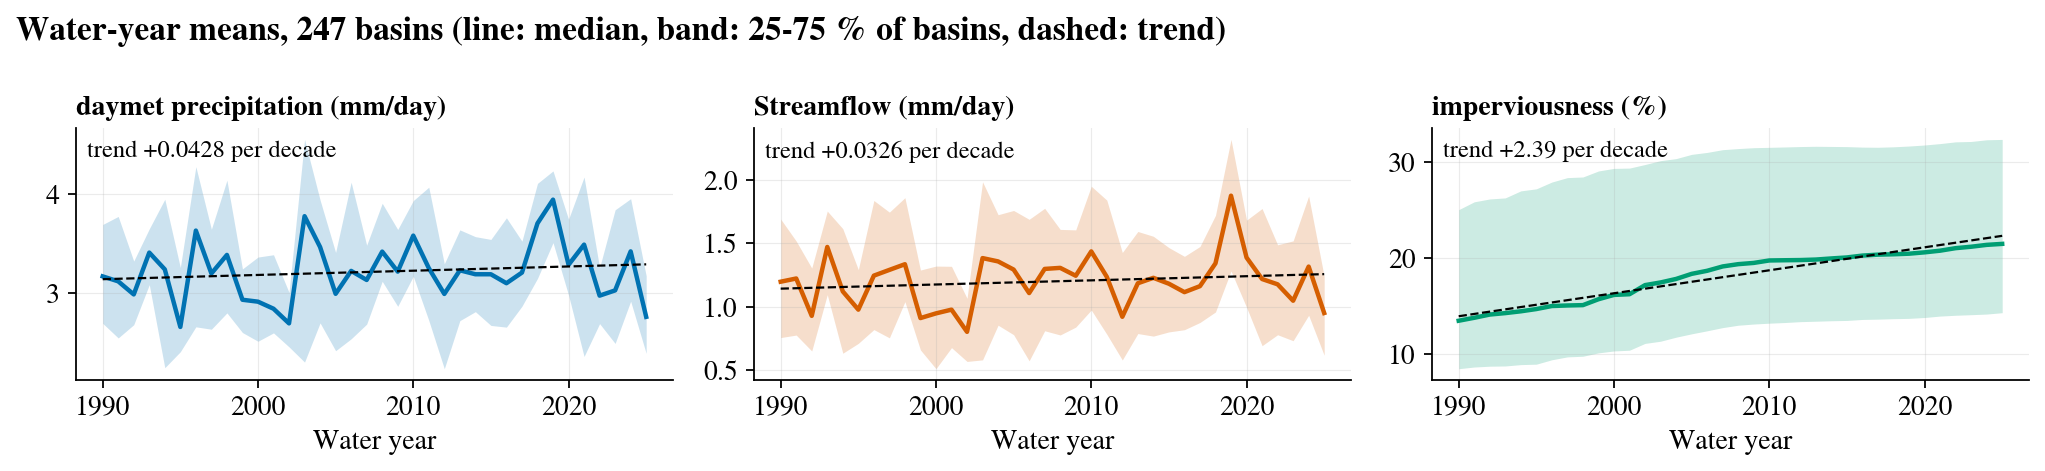
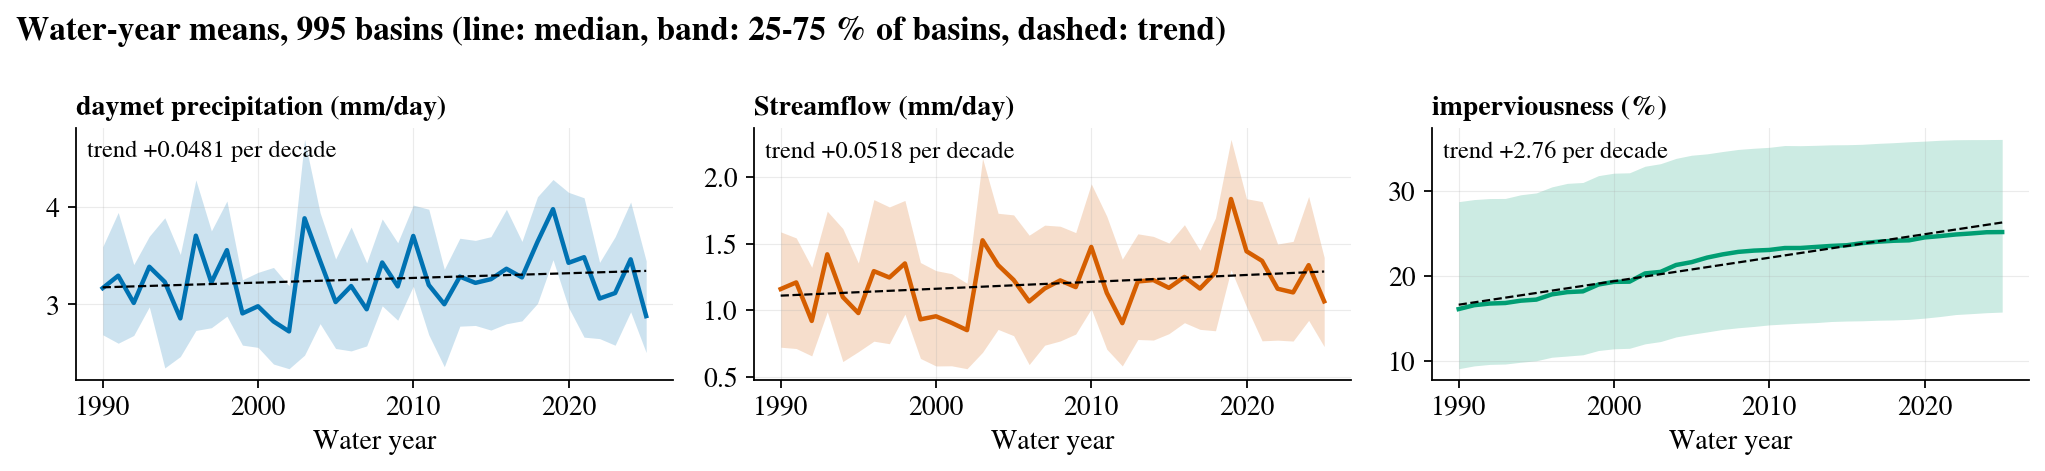
Examples and notebook default use all 995 basins

diff --git a/docs/make_readme_figures.py b/docs/make_readme_figures.py
@@ -97,7 +97,7 @@ def layout():
 
 
 def examples(root):
-    cfg = dict(data_root=root, resolution='daily', period=('1989-10-01', '2025-09-30'), basins=dict(preset='benchmark_247'),
+    cfg = dict(data_root=root, resolution='daily', period=('1989-10-01', '2025-09-30'), basins=dict(preset='all'),
                forcing={'daymet': ['prcp', 'tmax', 'srad', 'vp']}, pet={'daymet': ['pet_pt']}, dynamic_attributes=['imperv'],
                target=dict(unit='mm'), static_attributes=dict(groups=['location_topography'], categorical='drop'),
                gap_fill=dict(max_steps=2, precip='zero'), qc=dict(max_target_missing_pct=100, drop_if_inputs_missing=True),
@@ -105,7 +105,7 @@ def examples(root):
                           test=('2010-10-01', '2025-09-30')), output=dict(dir='unused', format='csv'))
     basins = up.select_basins(cfg['basins'], verbose=False)
     tables, _, _ = up.build(cfg, basins)
-    ax = up.plot_map(basins, title='The 247 benchmark basins (complete daily record), coloured by imperviousness')
+    ax = up.plot_map(basins, title='The 995 Urban-CAMELS basins, coloured by imperviousness')
     ax.figure.savefig(IMG / 'example_map.png', dpi=DPI, bbox_inches='tight', facecolor='white')
     up.plot_timeseries(tables, '02336300', period=('2020-10-01', '2021-09-30')).savefig(
         IMG / 'example_timeseries.png', dpi=DPI, bbox_inches='tight', facecolor='white')

diff --git a/README.md b/README.md
@@ -46,7 +46,7 @@ Open **`Urban_CAMELS_data_prep.ipynb`** from this folder. Set `DATA_ROOT` in the
 the environment variable `UCAMELS_DATA`), edit the cells marked **EDIT**, then run all cells.
 
 Basins are read in parallel, so 4 to 8 CPU cores help. Memory depends on the build:
-- a daily build of the 247 benchmark basins needs well under 4 GB and runs in under a minute;
+- a daily build of all 995 basins (Daymet forcing, PET, imperviousness) needs about 1 GB and runs in under a minute on 4 cores;
 - an hourly build of about 500 basins over WY2008-2025 needs about 12 GB and takes about 3 minutes.
 
 ## Use from a script
@@ -58,7 +58,7 @@ import ucamels_prep as up
 CONFIG = dict(
     data_root='/path/to/Urban-CAMELS',
     resolution='daily', period=('1989-10-01', '2025-09-30'),
-    basins=dict(preset='benchmark_247'),
+    basins=dict(preset='all'),
     forcing={'daymet': ['prcp', 'tmax', 'tmin', 'srad', 'vp']}, pet={'daymet': ['pet_pt']},
     dynamic_attributes=['imperv'], target=dict(unit='mm'),
     static_attributes=dict(groups=['location_topography', 'soil', 'climate'], from_training_period=True),
@@ -87,8 +87,8 @@ After `up.build()`, the notebook draws the dataset you built, at your time step.
 | `up.plot_scatter(tables, x, y, freq=...)` | two variables against each other over all basins |
 
 Correlations are computed inside each basin and the median over basins is shown, so differences in climate or size
-between basins do not create correlation. The examples below are the 247 benchmark basins at the daily step, and one
-storm at the hourly step with MRMS radar precipitation.
+between basins do not create correlation. The examples below are all 995 basins at the daily step (basins without daily streamflow
+are left out of the streamflow statistics), and one storm at the hourly step with MRMS radar precipitation.
 
 ![Map of the selected basins](docs/images/example_map.png)
 ![Daily time series of one basin](docs/images/example_timeseries.png)
